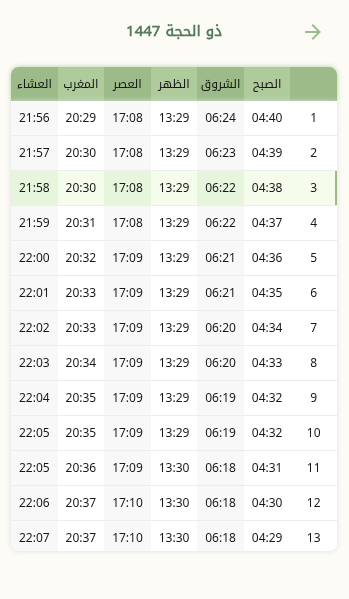
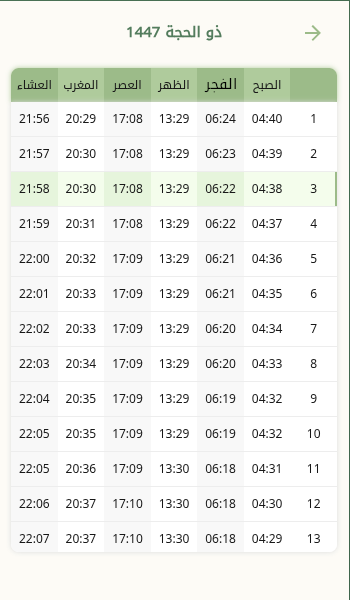
sc2

diff --git a/ui/popup.html b/ui/popup.html
@@ -36,7 +36,7 @@
             </nav>
             <ul class="prayers">
                 <li></li>
-                <li d>الصبح</li>
+                <li d>الفجر</li>
                 <li>الشروق</li>
                 <li d>الظهر</li>
                 <li>العصر</li>